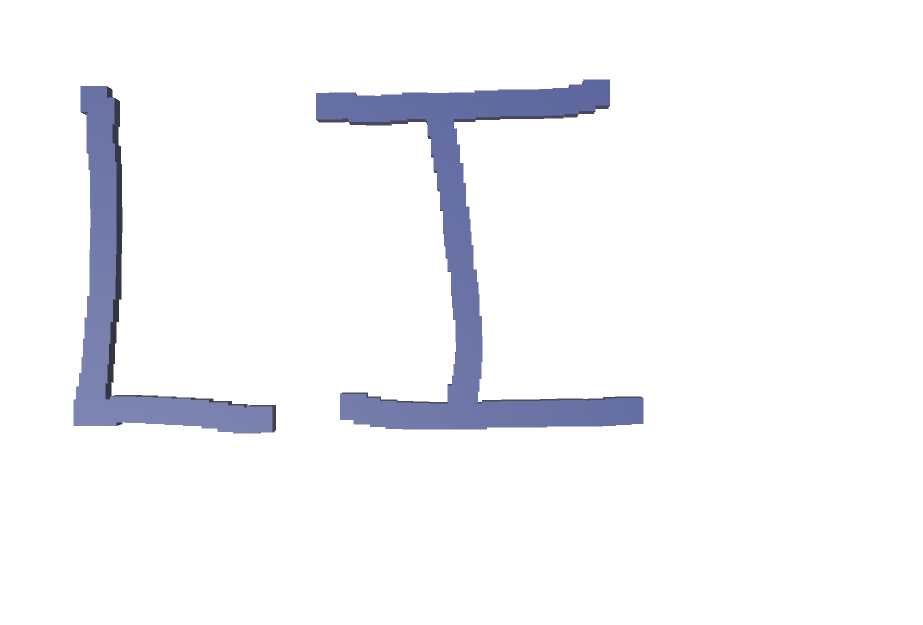
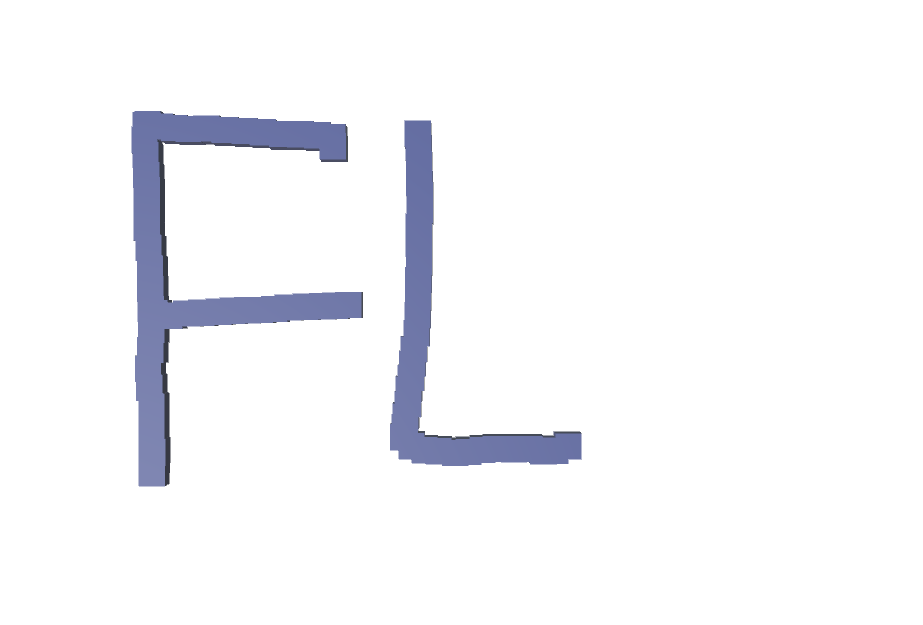
added labels for catalog
simplified hide menu code

Changed region(s): [[0.0607, 0.1216, 0.6977, 0.7904]]

diff --git a/Assets/arcLayout.cs b/Assets/arcLayout.cs
@@ -30,8 +30,7 @@ public class arcLayout : MonoBehaviour {
     public void createArcMenu()
     {
         //NOTE - ONLY HANDLES ODD NUMBER OF OBJECTS RIGHT NOW
-        //if (numItems <= catalog.transform.childCount)
-        //{
+
             //Debug.Log("number of children is " + catalog.transform.childCount.ToString());
             int numLoops = (catalog.transform.childCount - 1) / 2;
 
@@ -46,7 +45,6 @@ public class arcLayout : MonoBehaviour {
 
                 //reset child to initial position
                 catalog.transform.GetChild(itemIDX).localPosition = new Vector3(0, -.2f, 0);
-                catalog.transform.GetChild(itemIDX).gameObject.SetActive(true);
 
                 //rotate right
                 newYRotation = i * rotationDegrees;
@@ -57,7 +55,6 @@ public class arcLayout : MonoBehaviour {
                 //rotate left
                 newYRotation = i * rotationDegrees * -1;
                 catalog.transform.GetChild(itemIDX).localPosition = new Vector3(0, -.2f, 0);
-                catalog.transform.GetChild(itemIDX).gameObject.SetActive(true);
                 insertToArc(catalog.transform.GetChild(itemIDX), newYRotation,i);
                 itemIDX = 0;
 
@@ -67,24 +64,17 @@ public class arcLayout : MonoBehaviour {
             //assume there are an odd number of menuItems. place the last object in the center     
             newYRotation = 0;
             catalog.transform.GetChild(itemIDX).localPosition = new Vector3(0, -.2f, 0);
-            catalog.transform.GetChild(itemIDX).gameObject.SetActive(true);
             insertToArc(catalog.transform.GetChild(itemIDX), newYRotation,0);
 
-        //}
-        //else
-        //{
-        //    Debug.Log("There are not enough items in the catalog.");
-        //}
+            transform.gameObject.SetActive(true);
 
         Debug.Log("-- CreateArcMenu");
     }
 
     public void hideMenu()
     {
-        foreach(Transform child in transform)
-        {
-            child.gameObject.SetActive(false);
-        }
+        transform.gameObject.SetActive(false);
+
     }
 
 	// Use this for initialization

diff --git a/Assets/Scripts/simpleSearch.cs b/Assets/Scripts/simpleSearch.cs
@@ -27,6 +27,7 @@ public class simpleSearch : MonoBehaviour {
         //clean query
         query = query.Replace("\t", String.Empty);
         query = query.Replace("\n", String.Empty);
+        query = query.Replace(".", String.Empty);
 
         for (int i = 0;i < transform.childCount; i++)
         {
@@ -95,7 +96,7 @@ public class simpleSearch : MonoBehaviour {
 
     public void clearResults()
     {
-        if (currMenuObj.transform.childCount == 6) //assumes our catalog only shows 5 items + 1 for arcHelper
+        if (currMenuObj.transform.childCount == 7) //assumes our catalog only shows 5 items + 1 for arcHelper and title
         {
             //do nothing
         }
@@ -109,11 +110,11 @@ public class simpleSearch : MonoBehaviour {
 
 
             //assume 0th index is arcHelper
-            int j = 1;
-            while (currMenuObj.transform.childCount > 1)
+            int j = 2;
+            while (currMenuObj.transform.childCount > 2)
             {
                 Debug.Log("child name is " + currMenuObj.transform.GetChild(j).name);
-                if (currMenuObj.transform.GetChild(j).name != "arcHelper")
+                if (currMenuObj.transform.GetChild(j).tag != "menuDeco")
                 {
 
                     currMenuObj.transform.GetChild(j).SetParent(catalog.transform);
